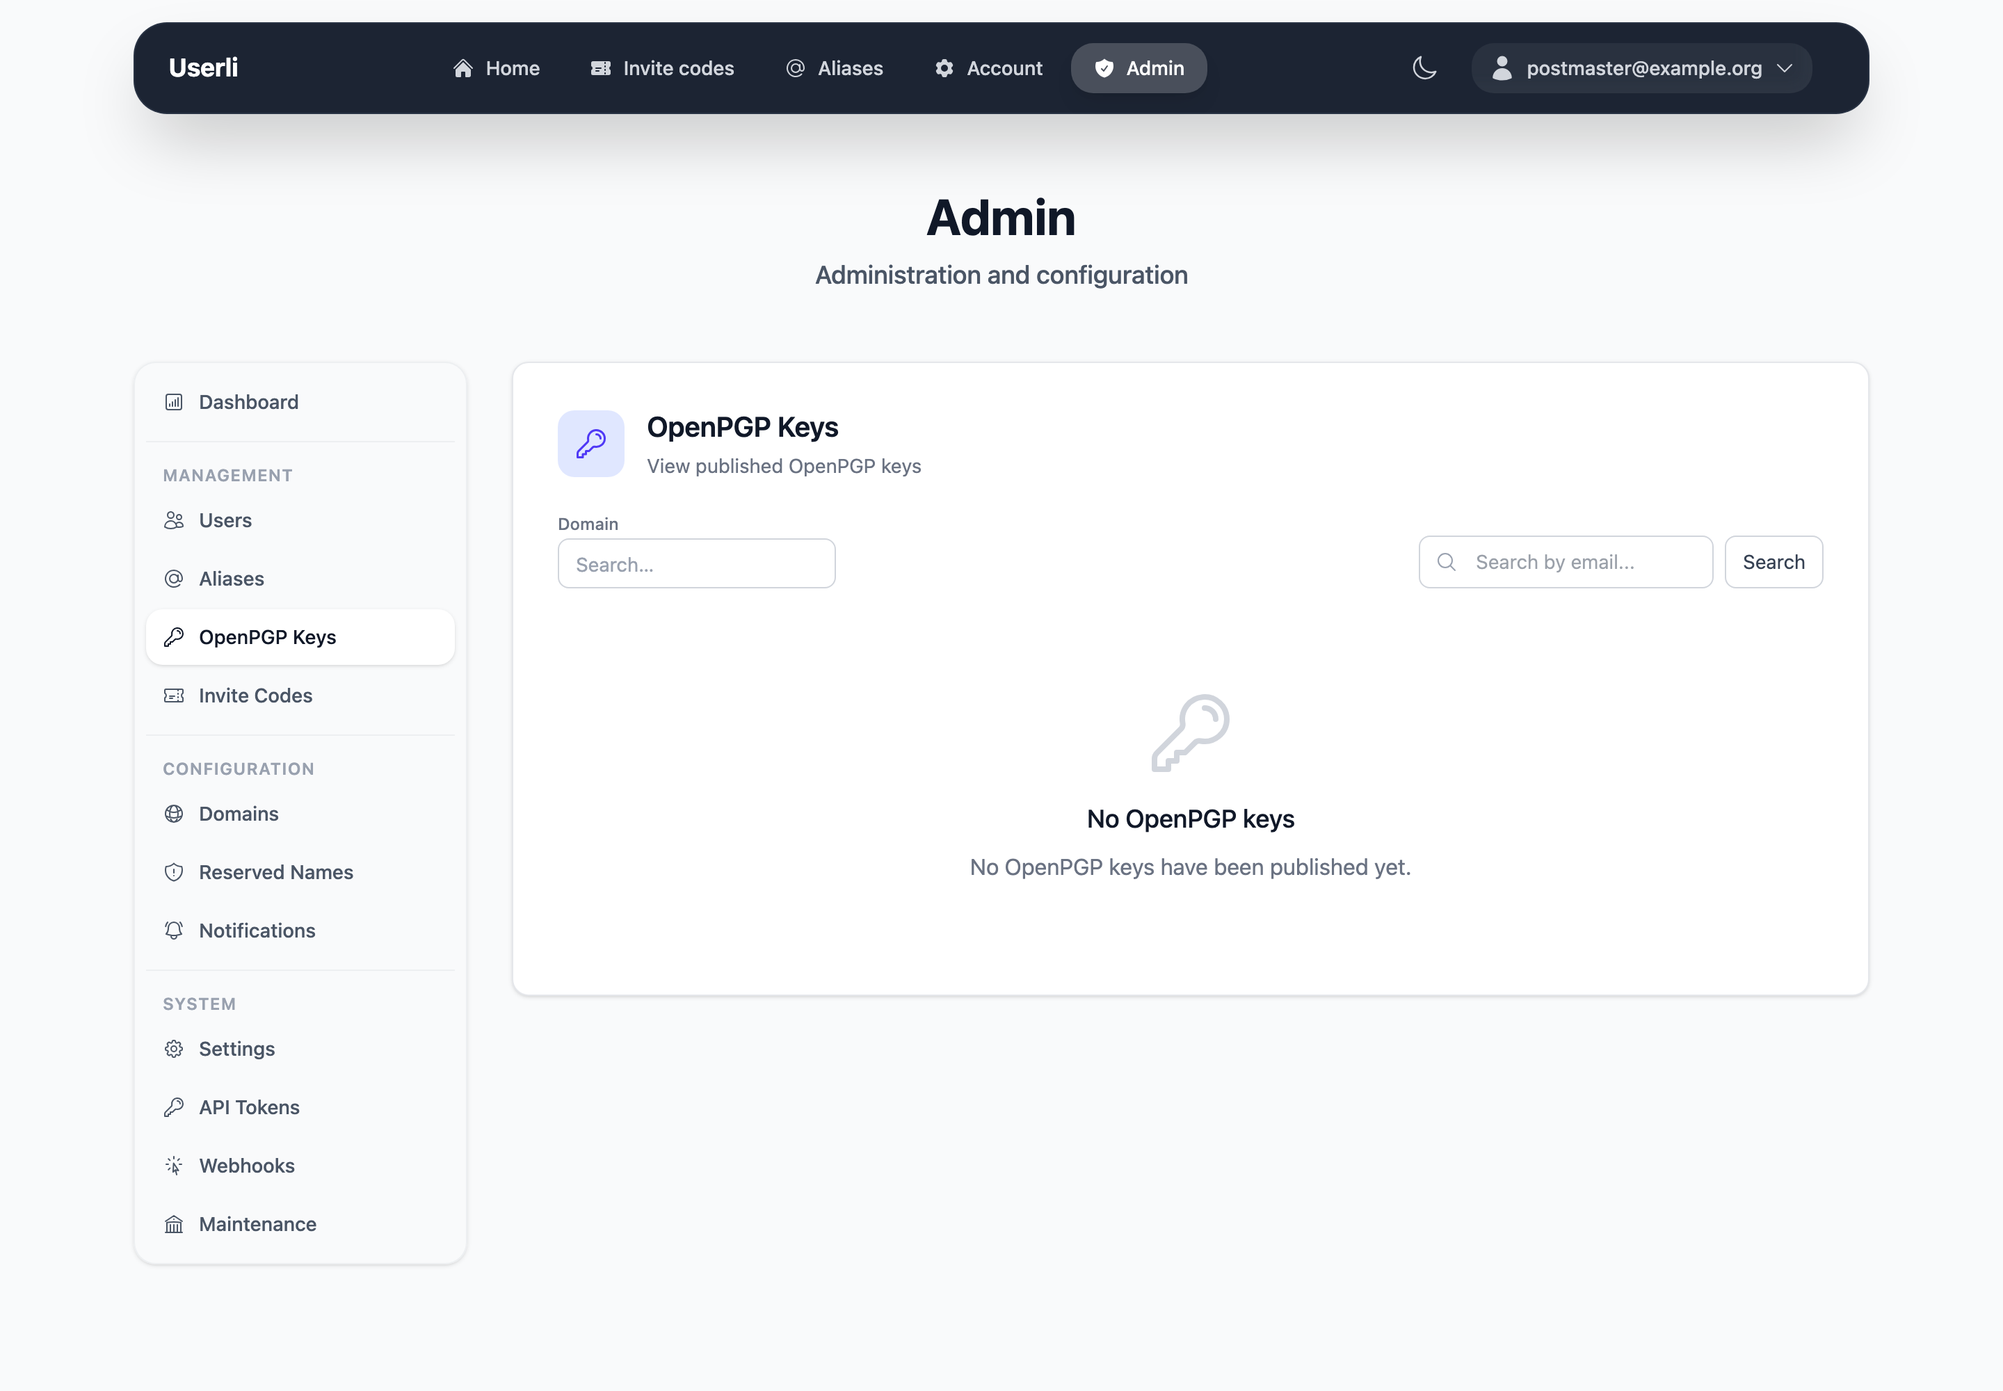
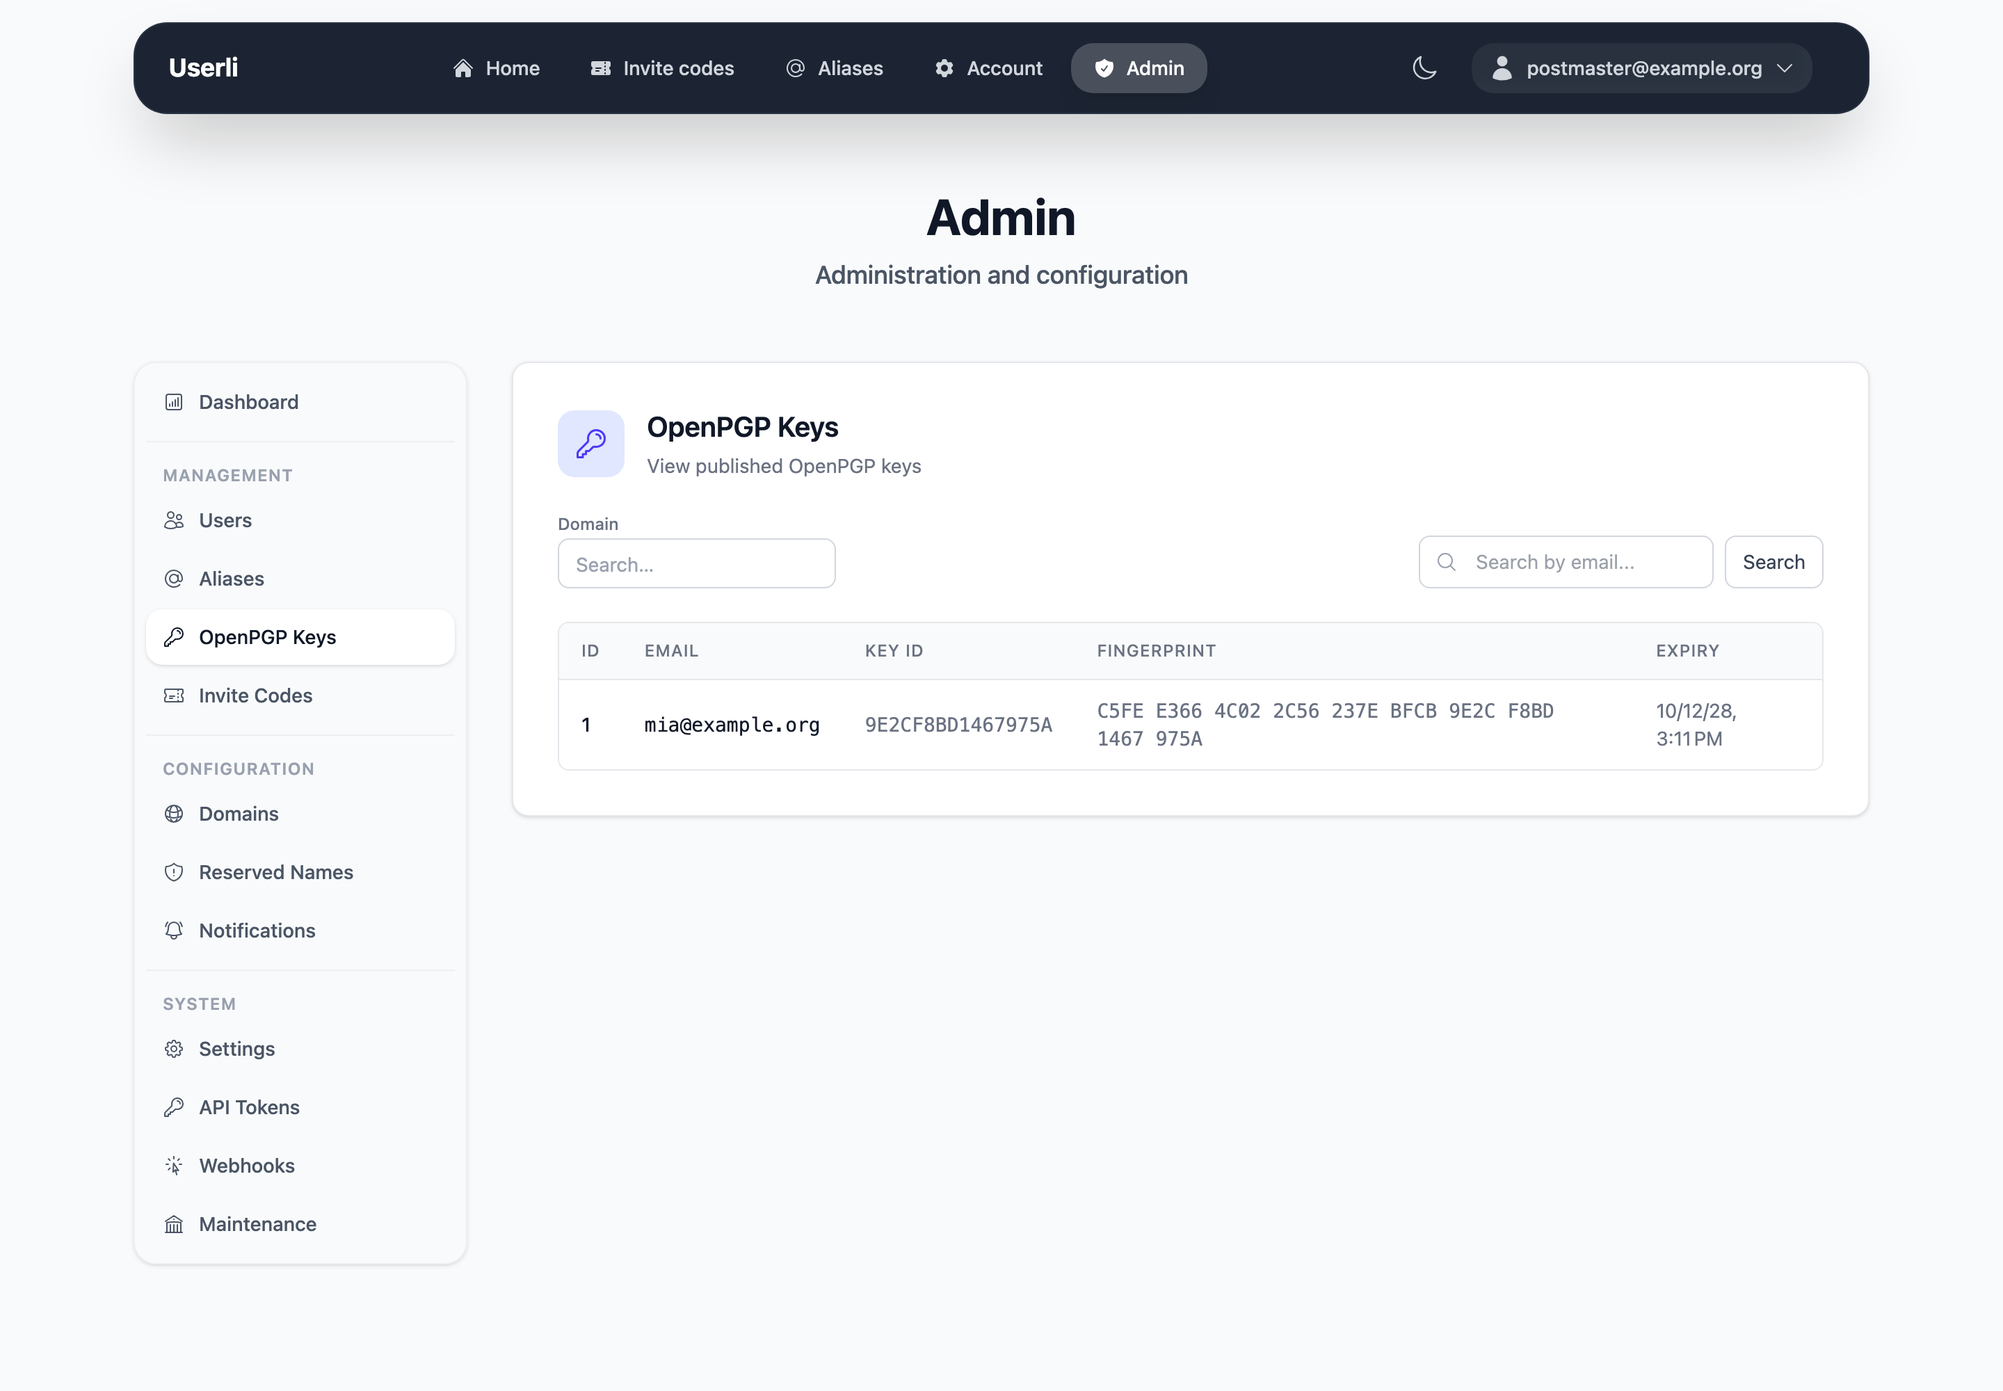
📝 Fix outdated documentation and add screenshots to feature pages (#1363)
* 📝 Fix outdated documentation

Align the docs with the current code: replace the removed settings URLs
with the admin interface paths, move MailCrypt configuration from the
environment variable to the admin settings, update the command list,
document the setup wizard and the required worker and scheduler, drop the
obsolete maildir cron job and fix the make targets and retention API
endpoint.

* 🐛 Remove stray quote from setup wizard text

* 📝 Add screenshots to the feature pages

Show the relevant admin and account pages on the MailCrypt, MTA-STS, Web
Key Directory, integrations and webhooks pages and add the setup wizard
to the installation guide.

---------

diff --git a/docs/installation/finalize.md b/docs/installation/finalize.md
@@ -12,12 +12,30 @@ bin/console doctrine:migrations:migrate --no-interaction
 bin/console cache:warmup
 ```
 
+## Initial setup
+
+Open Userli in your browser. As long as no domain exists, you are redirected to
+the setup wizard at `/init`, which guides you through two steps:
+
+1. Create the first mail domain.
+
+![Setup wizard: domain](../assets/images/init-domain.png){class="screenshot"}
+
+2. Set the password of the first admin account `postmaster@<domain>`.
+
+![Setup wizard: admin password](../assets/images/init-user.png){class="screenshot"}
+
+Afterwards, log in with the new admin account and review the global settings
+(names, URLs, sender addresses, ...) in **Admin → Settings**, see the
+[Admin Guide](../admin/index.md#settings). You can also set the admin password
+on the command line with `bin/console app:admin:password`.
+
 ## Import reserved names
 
-Reserved names can be managed via the Settings UI under "Reserved Names".
+Reserved names can be managed in the admin interface under **Admin → Reserved Names**.
 A curated list of common reserved names is available at
 [`contrib/reserved_names.txt`](https://github.com/systemli/userli/blob/main/contrib/reserved_names.txt)
-and can be imported through the import function in the Settings UI.
+and can be imported through the import function there.
 
 ## Configure Dovecot
 
@@ -28,17 +46,33 @@ the `mail_location` in `10-mail.conf` to something like this:
 mail_location = maildir:~/%d/%n
 ```
 
-## Cronjobs
+## Background services
 
-Some cronjobs are needed in order to run regular tasks. As Userli does not
-have write permissions at Dovecot's maildir (usually this directory belongs
-to the system user `vmail`) you have to use a [script](https://github.com/systemli/ansible-role-userli/blob/master/templates/userli-maildirs-remove.sh.j2)
-to delete a maildir from a removed Userli account:
+Userli sends emails (e.g. the welcome mail) and webhooks asynchronously and
+runs recurring maintenance tasks (e.g. removing inactive users, sending the
+weekly report). Both require two long-running processes besides the webserver:
 
-```text
-# Daily create lists of removed mail accounts
-@daily userli cd /path/to/userli && bin/console app:users:remove --list --env=prod >/usr/local/share/userli/maildirs-remove.txt
+```shell
+# Worker for asynchronous messages
+bin/console messenger:consume async --time-limit=3600 -vv
 
-# Daily delete maildirs of removed accounts
-@daily /usr/local/bin/userli-maildirs-remove.sh
+# Scheduler for recurring maintenance tasks
+bin/console messenger:consume scheduler_maintenance --time-limit=3600 -vv
 ```
+
+Run them under a process supervisor such as systemd, which restarts them when
+they exit after the time limit. The messages are stored in the database by default (`MESSENGER_TRANSPORT_DSN`
+in `.env`); Redis or AMQP can be configured in `.env.local` instead.
+
+!!! note
+
+    Without the worker, no emails or webhooks are sent. Without the scheduler,
+    the maintenance tasks are not executed. They can also be triggered manually
+    in the admin interface under **Admin → Maintenance**.
+
+## Removing mailboxes of deleted users
+
+Userli has no write access to Dovecot's maildirs (usually owned by the system
+user `vmail`) and therefore does not delete mailboxes itself. To remove the
+maildir of a deleted account, react to the `user.deleted`
+[webhook](../features/webhooks.md) with a script on the mail server.

diff --git a/docs/features/mail_crypt.md b/docs/features/mail_crypt.md
@@ -7,19 +7,21 @@ Keys are created and maintained by userli and handed over via an API and can
 be consumed by Dovecot by a Lua script. See [here](../installation/dovecot.md)
 for how to configure authentication and mailcrypt in Dovecot.
 
-The MailCrypt feature is enabled per default and can optionally be switched
-off globally by setting `MAIL_CRYPT=0` in the dotenv (`.env`) file.
+MailCrypt is configured globally in the admin interface under
+**Admin → Settings → Mailbox Encryption** (setting `mail_crypt`, default `2`).
+The following values are supported:
 
-If you want to enable MailCrypt for some users, but don't want new users to
-have MailCrypt enabled per default, you can set `MAIL_CRYPT=1` in the dotenv
-(`.env`) file. The following values are supported for `MAIL_CRYPT`:
-
-* `MAIL_CRYPT=0` - Disable MailCrypt globally
-* `MAIL_CRYPT=1` - Allow to use MailCrypt, needs to be enabled manually for new
-  users
-* `MAIL_CRYPT=2` - Enforce MailCrypt key generation for new users
-* `MAIL_CRYPT=3` - Enforce MailCrypt key generation for all users, see the
+* `0` - Disable MailCrypt globally
+* `1` - Allow to use MailCrypt, needs to be enabled manually for new users
+* `2` - Enforce MailCrypt key generation for new users
+* `3` - Enforce MailCrypt key generation for all users, see the
   documentation about migrating legacy users for more info
+
+![MailCrypt settings](../assets/images/admin-settings-mailcrypt.png){class="screenshot"}
+
+The admin interface shows for every user whether MailCrypt is enabled:
+
+![User details with MailCrypt status](../assets/images/admin-user-show.png){class="screenshot"}
 
 MailCrypt can be turned on/off for individual users by setting the `mail_crypt`
 switch in the `users` database table. This switch is mainly meant to
@@ -58,7 +60,7 @@ In order to enable MailCrypt for a legacy user, do the following:
 
 Or, alternatively, to enforce MailCrypt for all legacy users:
 
-1. Set `MAIL_CRYPT=3` in the dotenv (`.env`) file. This will result in a
+1. Set the MailCrypt setting to `3` in **Admin → Settings**. This will result in a
    MailCrypt key pair being generated automatically when legacy users log
    in the next time. Again, we cannot do this step without the user logging
    in, as the user password is required to do so.

diff --git a/docs/installation/commands.md b/docs/installation/commands.md
@@ -5,27 +5,25 @@ This app brings custom commands:
 ```text
 app:admin:password                      Set password of admin user
 app:alias:delete                        Delete an alias
+app:api-token:create                    Create a new API token with specified name and scopes
+app:api-token:delete                    Delete an API token by its plain token
 app:domain:delete                       Delete a domain and all associated data (users, aliases, vouchers)
 app:metrics                             Global Metrics for Userli
 app:openpgp:delete-key                  Delete OpenPGP key for email
 app:openpgp:import-key                  Import OpenPGP key for email
 app:openpgp:show-key                    Show OpenPGP key of email
-app:report:weekly                       Send weekly report to all admins
 app:users:delete                        Delete a user
-app:users:list                          List users
 app:users:mailcrypt                     Get MailCrypt values for user
 app:users:quota                         Get quota of user if set
 app:users:registration:mail             Send a registration mail to a user
-app:users:remove                        Removes all mailboxes from deleted users
 app:users:reset                         Reset a user
-app:users:restore                       Reset a user
+app:users:restore                       Restore a user
 app:voucher:count                       Get count of vouchers for a specific user
 app:voucher:create                      Create voucher for a specific user
-app:voucher:unlink                      Remove connection between vouchers and accounts after 3 months
 ```
     
 Get more information about each command by running:
 
-```
-bin/console {{ command }} --help
+```shell
+bin/console <command> --help
 ```

diff --git a/docs/features/integrations.md b/docs/features/integrations.md
@@ -5,7 +5,11 @@ Access is now controlled via API Tokens with fine-grained scopes. The previous e
 
 ## API tokens and scopes
 
-Create and manage tokens via UI: Settings → API Tokens (`/settings/api`).
+Create and manage tokens via UI: Admin → API Tokens (`/admin/api/`).
+
+![API tokens](../assets/images/admin-api-tokens.png){class="screenshot"}
+
+![Create an API token](../assets/images/admin-api-token-create.png){class="screenshot"}
 
 CLI:
 
@@ -97,7 +101,7 @@ User exposes `/api/postfix/` endpoints for Postfix integration, intended to be c
 Userli provides generic API methods at `/api/retention/` to:
 
 - Touch a user’s last login timestamp independent of authentication
-- List deleted users for a domain
+- List inactive users (no login for two years)
 
 Background: Each time a user authenticates (classic login, or via Keycloak/Dovecot APIs), Userli updates the user's last login time.
 Some services issue long-lived tokens and won’t re-authenticate regularly, which can make last-login based retention inaccurate
@@ -115,9 +119,9 @@ Touch last login (optional unix timestamp, must not be in the future):
 
     { "timestamp": 1693843200 }
 
-List deleted users for a domain:
+List inactive users:
 
-    GET /api/retention/<domain>/users
+    GET /api/retention/users
     Authorization: Bearer <PLAIN_TOKEN_WITH_retention_SCOPE>
 
 ## Migration notes (deprecated settings)

diff --git a/docs/features/wkd.md b/docs/features/wkd.md
@@ -11,6 +11,18 @@ or newer) to be installed, as the
 [`pear/crypt_gpg`](https://pear.php.net/manual/en/package.encryption.crypt-gpg.intro.php)
 library uses it to parse and validate uploaded keys.
 
+Users publish their key in **Account → OpenPGP Keys**, either by uploading a
+file or by pasting the key as text. The key can be published for the account
+and for each alias address.
+
+![Upload an OpenPGP key](../assets/images/openpgp-upload.png){class="screenshot"}
+
+![Published OpenPGP key](../assets/images/openpgp-published.png){class="screenshot"}
+
+Admins can list all published keys in **Admin → OpenPGP Keys**.
+
+![Published OpenPGP keys (admin)](../assets/images/admin-openpgp-keys.png){class="screenshot"}
+
 Userli serves WKD keys directly via HTTP using the **Advanced** method. The
 following routes are provided:
 
@@ -18,8 +30,8 @@ following routes are provided:
   key for the given WKD hash
 - `/.well-known/openpgpkey/{domain}/policy` — returns an empty policy file
 
-Key lookups are cached in Redis with a 24-hour TTL and automatically
-invalidated when keys are created, updated, or deleted.
+Key lookups are cached with a 24-hour TTL (in Redis if `REDIS_URL` is
+configured, otherwise on the filesystem) and automatically invalidated when keys are created, updated, or deleted.
 
 ## Reverse Proxy Setup
 

diff --git a/README.md b/README.md
@@ -18,8 +18,13 @@ Web application to (self-) manage e-mail users and encrypt their mailboxes.
 * Domain admins (accounts with admin rights for one domain)
 * Random alias feature for users
 * Recovery tokens to restore accounts when password got lost
-* Support for [Dovecot mailbox encryption](https://doc.dovecot.org/configuration_manual/mail_crypt_plugin/)
-* Multi-language support (English, French, Spanish, Portuguese, Bokmål, and German provided)
+* Support for [Dovecot mailbox encryption](https://doc.dovecot.org/main/core/plugins/mail_crypt.html)
+* Two-factor authentication (TOTP) with backup codes
+* OpenPGP key publishing via [Web Key Directory](https://systemli.github.io/userli/features/wkd/)
+* Admin interface for users, aliases, domains, invite codes, API tokens and webhooks
+* APIs for Dovecot, Postfix, Keycloak and Roundcube, and [webhooks](https://systemli.github.io/userli/features/webhooks/)
+* [MTA-STS](https://systemli.github.io/userli/features/mta-sts/) policy hosting
+* Multi-language support (English, German, Spanish, French, Italian, Portuguese, Bokmål, and Swiss German provided)
 
 ## Installation
 

diff --git a/docs/features/mta-sts.md b/docs/features/mta-sts.md
@@ -3,11 +3,14 @@
 Userli supports [MTA-STS (SMTP MTA Strict Transport Security)](https://datatracker.ietf.org/doc/html/rfc8461), a mechanism that allows mail domains to declare that they support TLS for inbound SMTP connections. 
 Sending servers will refuse to deliver email without a valid TLS connection, protecting against downgrade and man-in-the-middle attacks.
 
-MTA-STS is configured globally in the admin settings under **Settings → General**. The following settings are available:
+MTA-STS is configured globally in the admin interface under **Admin → Settings → MTA-STS**. The following settings are available:
 
 - **MTA-STS Mode** — `testing` (default), `enforce`, or `none`
 - **MX Hosts** — allowed MX hostnames, one per line (e.g. `mail.example.org`)
 - **Max Age** — policy cache duration in seconds (default: 604800 = 1 week)
+
+
+![MTA-STS settings](../assets/images/admin-settings-mta-sts.png){class="screenshot"}
 
 Userli serves the MTA-STS policy at `/.well-known/mta-sts.txt`, returning the policy for the domain derived from the `Host` header.
 

diff --git a/docs/features/webhooks.md b/docs/features/webhooks.md
@@ -18,7 +18,12 @@ The following events can trigger webhooks:
 
 ## Configuring Webhooks
 
-To configure webhooks create an endpoint via UI: Settings → Webhooks (`/settings/webhooks`).
+To configure webhooks create an endpoint via UI: Admin → Webhooks (`/admin/webhooks/`).
+
+![Webhooks](../assets/images/admin-webhooks.png){class="screenshot"}
+
+![Create a webhook](../assets/images/admin-webhook-create.png){class="screenshot"}
+
 You need to provide the following information:
 
 - **URL**: The endpoint URL where the webhook payload will be sent.
@@ -91,6 +96,9 @@ Your receiver should treat webhook handling as idempotent; use `X-Webhook-Id` to
 ### Manual Retries
 
 You can manually trigger a retry for a specific webhook delivery from the Userli admin interface.
+The deliveries of an endpoint, including their status, are listed there.
+
+![Webhook deliveries](../assets/images/admin-webhook-deliveries.png){class="screenshot"}
 This is useful if you have fixed an issue with your endpoint and want to reprocess a failed webhook event.
 
 ### Success Criteria

diff --git a/docs/index.md b/docs/index.md
@@ -12,7 +12,12 @@ Web application to (self-) manage e-mail users and encrypt their mailboxes.
 * Random alias feature for users
 * Recovery tokens to restore accounts when password got lost
 * Support for [Dovecot mailbox encryption](https://doc.dovecot.org/main/core/plugins/mail_crypt.html)
-* Multi-language support (English, French, Spanish, Portuguese, Bokmål, and German provided)
+* Two-factor authentication (TOTP) with backup codes
+* OpenPGP key publishing via [Web Key Directory](https://systemli.github.io/userli/features/wkd/)
+* Admin interface for users, aliases, domains, invite codes, API tokens and webhooks
+* APIs for Dovecot, Postfix, Keycloak and Roundcube, and [webhooks](https://systemli.github.io/userli/features/webhooks/)
+* [MTA-STS](https://systemli.github.io/userli/features/mta-sts/) policy hosting
+* Multi-language support (English, German, Spanish, French, Italian, Portuguese, Bokmål, and Swiss German provided)
 
 ## Roles
 

diff --git a/docs/development/testing.md b/docs/development/testing.md
@@ -14,7 +14,7 @@ Tests use SQLite (configured in `.env.test`), so no running database container i
 === "make"
 
     ```shell
-    make test
+    make phpunit
     ```
 
 ## Vitest
@@ -33,7 +33,7 @@ Test files live in `tests/js/` and mirror the `assets/` structure.
 === "make"
 
     ```shell
-    make jstest
+    make vitest
     ```
 
 ## Behat
@@ -50,7 +50,7 @@ They test user-facing functionality through a browser simulation.
 === "make"
 
     ```shell
-    make integration
+    make behat
     ```
 
 ## Dovecot integration

diff --git a/docs/installation/dovecot.md b/docs/installation/dovecot.md
@@ -10,7 +10,7 @@ If the mailcrypt is enabled in Userli, the adapter script will also forward the 
 
 Create an API token with the scope `dovecot` and use it to authenticate requests from the Dovecot host.
 
-- Via UI: Settings → API Tokens (`/settings/api`) → Create token → select scope `dovecot`.
+- Via UI: Admin → API Tokens (`/admin/api/`) → Create token → select scope `dovecot`.
 - Via CLI:
 
     ```bash

diff --git a/docs/development/index.md b/docs/development/index.md
@@ -69,7 +69,6 @@ When it finishes, open [http://localhost:8000](http://localhost:8000) and log in
 
 ```text
 src/
-├── Admin/            Sonata Admin classes (backend management)
 ├── Controller/       HTTP controllers (separate GET/POST methods)
 ├── Entity/           Doctrine entities (User, Domain, Alias, Voucher, …)
 ├── Enum/             PHP enums (Roles, webhook events, …)
